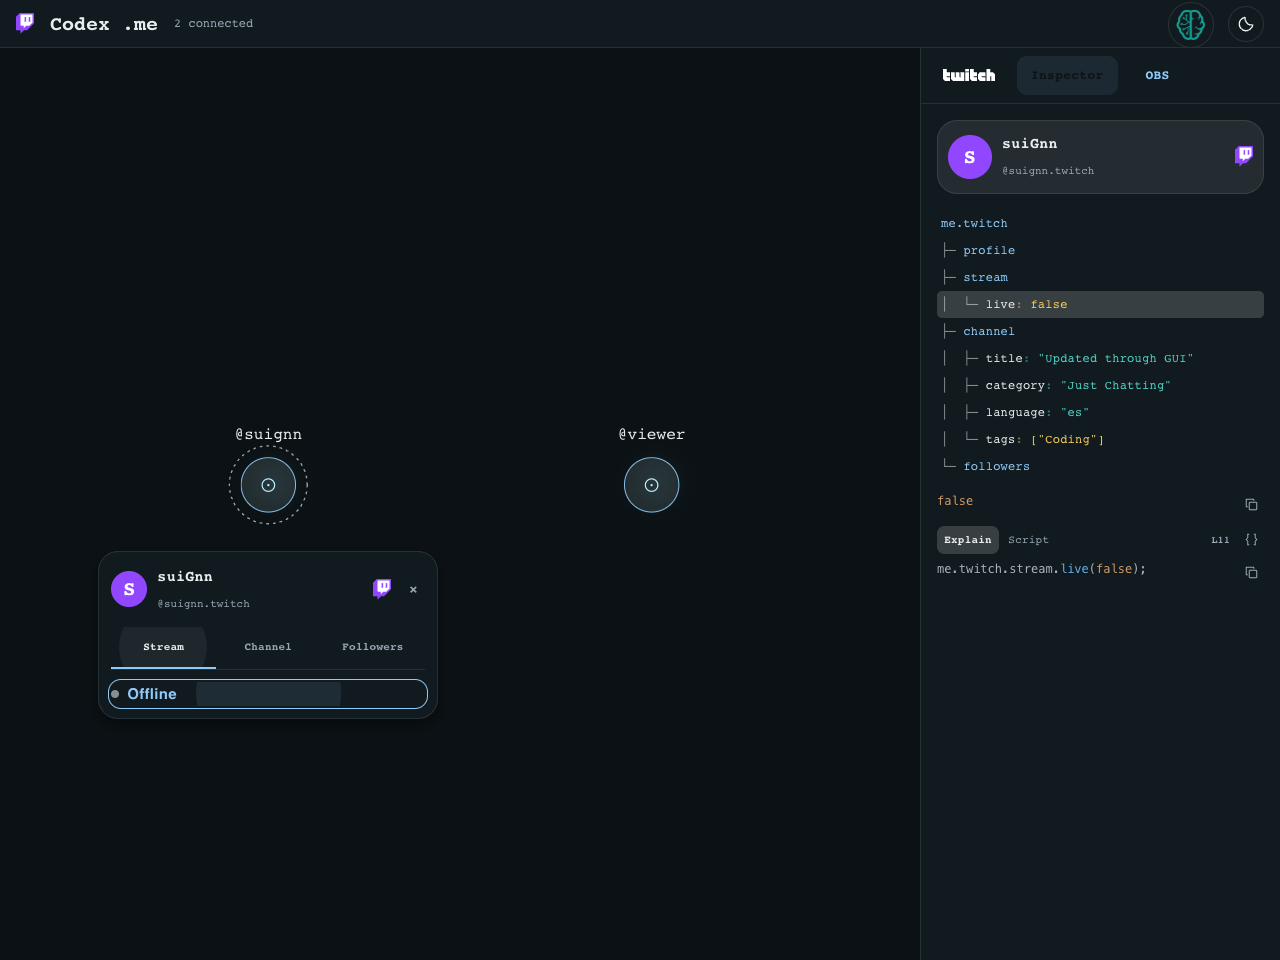
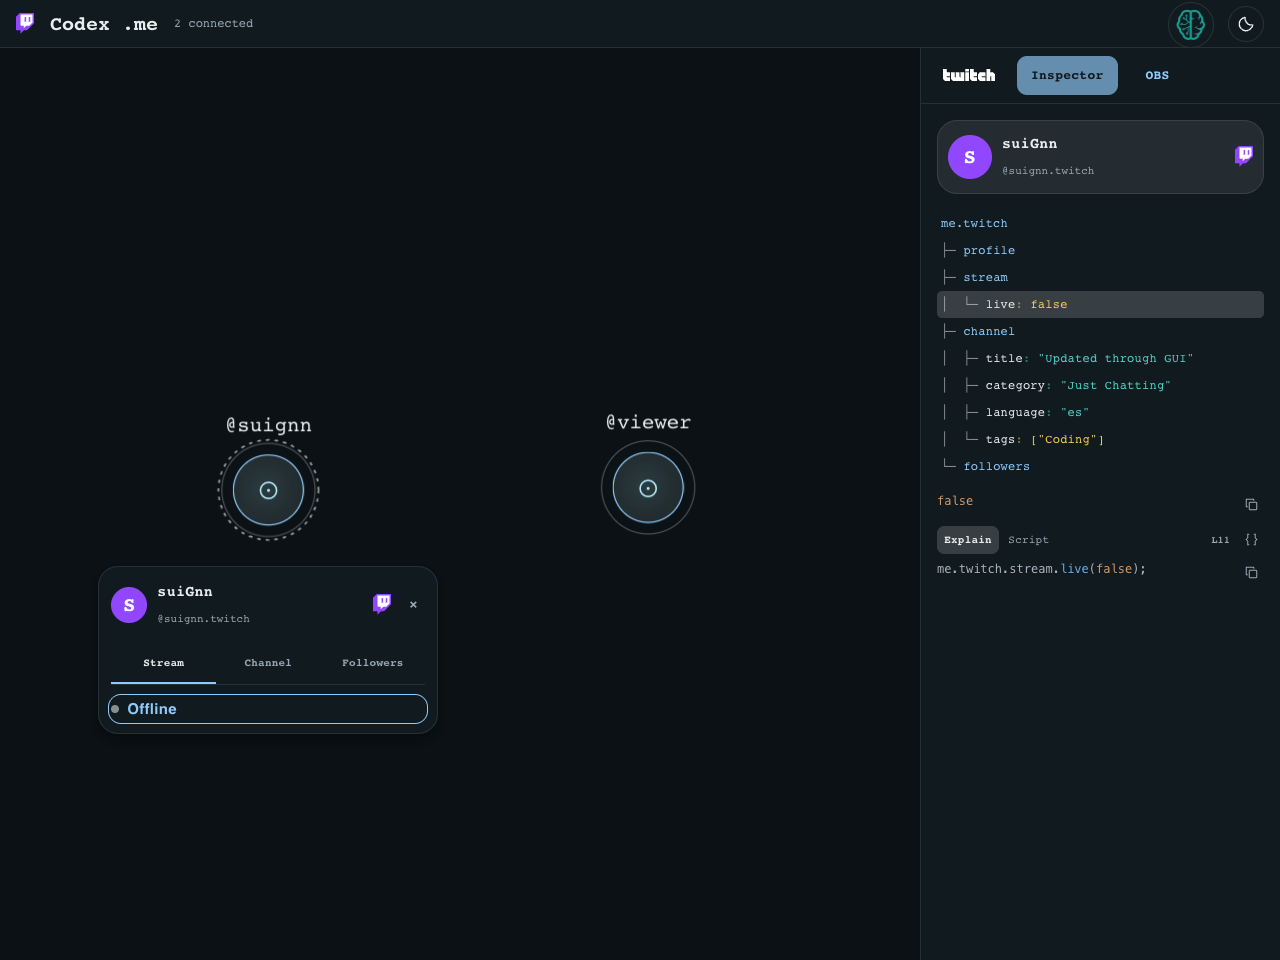
feat: float me companions beside faces and recover stalled tracking

diff --git a/ui/face-tracking.js b/ui/face-tracking.js
@@ -6,12 +6,14 @@ export function FaceTracking({ csrf, authed, owner }) {
   const [enabled, setEnabled] = R.useState(false), [stream, setStream] = R.useState(null);
   const [error, setError] = R.useState(''), [relayError, setRelayError] = R.useState(''), [hasFace, setHasFace] = R.useState(false);
   const video = R.useRef(null), canvas = R.useRef(null), busy = R.useRef(null), published = R.useRef(false);
+  const lastAnchor = R.useRef(0);
   const epoch = R.useRef(0), activeStream = R.useRef(null);
   const { faceLandmarker, faceLandmarkerLoading, faceLandmarkerError } = useFaceLandmarker({ enabled });
   const send = R.useCallback(async anchor => {
     // Landmarks can leave the camera frame; never submit invalid positions.
     const v = video.current;
     if (anchor && (!v?.videoWidth || !v?.videoHeight || !Number.isFinite(anchor.x) || !Number.isFinite(anchor.y) || anchor.x < 0 || anchor.x > 1 || anchor.y < 0 || anchor.y > 1)) return;
+    lastAnchor.current = performance.now();
     if (!anchor && !published.current) return;
     if (busy.current && anchor) return;
     if (!anchor) await busy.current;
@@ -19,7 +21,7 @@ export function FaceTracking({ csrf, authed, owner }) {
     let finish; busy.current = new Promise(resolve => { finish = resolve; });
     try {
       const value = anchor ? { x: anchor.x, y: anchor.y, aspect: v.videoWidth / v.videoHeight } : { x: null, y: null };
-      const response = await fetch('/api/face', { method: 'POST', headers: { 'Content-Type': 'application/json', 'X-CSRF-Token': csrf }, body: JSON.stringify(value), keepalive: !anchor });
+      const response = await fetch('/api/face', { method: 'POST', headers: { 'Content-Type': 'application/json', 'X-CSRF-Token': csrf }, body: JSON.stringify(value), signal: AbortSignal.timeout(2500), keepalive: !anchor });
       if (response.ok) setRelayError('');
       else if (response.status !== 429) setRelayError(response.status === 403 ? 'Tracking session expired. Reload stream setup.' : response.status === 401 ? 'Reconnect Twitch to resume tracking.' : 'Camera position disconnected. Retrying…');
     } catch { setRelayError('Local server unavailable. Retrying…'); } finally { busy.current = null; finish(); }
@@ -29,6 +31,35 @@ export function FaceTracking({ csrf, authed, owner }) {
     faceLandmarkerLoading, faceLandmarkerError, variant: 'modal', mirrorPreview: false, detectThrottleMs: 150,
     noFaceMissesToClear: 4, noFaceGraceMs: 600, minFaceHoldMs: 0,
     showMeshConnections: true, meshStep: 4, onHasFaceChange: setHasFace, onHudAnchor: send });
+  // Keep using GUI's model. A low-rate track snapshot recovers when browser
+  // rAF/video playback pauses; no new camera capture and no images leave this page.
+  R.useEffect(() => {
+    if (!enabled || !stream || !faceLandmarker || faceLandmarkerError) return;
+    const track = stream.getVideoTracks()[0];
+    let capture = null;
+    try { if (typeof ImageCapture === 'function' && track) capture = new ImageCapture(track); } catch { /* Use the video element where track snapshots are unsupported. */ }
+    let detecting = false, disposed = false;
+    const tick = async () => {
+      if (detecting || performance.now() - lastAnchor.current < 750 || activeStream.current !== stream || track?.readyState !== 'live') return;
+      detecting = true; let frame;
+      try {
+        const element = video.current;
+        if (!element) return;
+        if (element.srcObject !== stream) element.srcObject = stream;
+        if (element.paused) void element.play().catch(() => {});
+        if (capture) frame = await capture.grabFrame();
+        else if (element.paused || element.readyState < 2) return;
+        if (disposed || activeStream.current !== stream) return;
+        const result = faceLandmarker.detectForVideo(frame || element, performance.now());
+        const point = result?.faceLandmarks?.[0]?.[10];
+        setHasFace(!!point);
+        void send(point ? { x: point.x, y: point.y } : null);
+      } catch { if (!disposed) setRelayError('Camera tracking paused. Return to stream setup to resume.'); }
+      finally { frame?.close(); detecting = false; }
+    };
+    const timer = setInterval(tick, 1000);
+    return () => { disposed = true; clearInterval(timer); };
+  }, [enabled, stream, faceLandmarker, faceLandmarkerError, send]);
   const stop = R.useCallback(() => {
     epoch.current++; activeStream.current?.getTracks().forEach(track => track.stop()); activeStream.current = null;
     setStream(null); setEnabled(false); setHasFace(false); setRelayError(''); void send(null);
@@ -42,7 +73,7 @@ export function FaceTracking({ csrf, authed, owner }) {
       activeStream.current = media; setStream(media);
     } catch { if (attempt === epoch.current) { setEnabled(false); setError('Allow camera access in this browser, then try again.'); } }
   };
-  R.useEffect(() => { if (video.current) video.current.srcObject = stream; }, [stream]);
+  R.useEffect(() => { if (video.current) { video.current.srcObject = stream; if (stream) void video.current.play().catch(() => {}); } }, [stream]);
   R.useEffect(() => { if (!authed && enabled) stop(); }, [authed, enabled, stop]);
   R.useEffect(() => {
     const close = () => { epoch.current++; activeStream.current?.getTracks().forEach(t => t.stop()); void send(null); };
@@ -54,7 +85,7 @@ export function FaceTracking({ csrf, authed, owner }) {
       h(Typography, { sx: { fontFamily: 'monospace', fontSize: 14, flex: 1 } }, `Camera · @${owner}'s .me`),
       h(Button, { size: 'small', disabled: !authed, onClick: enabled ? stop : start }, enabled ? 'Stop tracking' : 'Start face tracking')),
     h(Typography, { role: 'status', sx: { fontFamily: 'monospace', fontSize: 12, color: error || relayError || faceLandmarkerError ? 'error.main' : 'text.secondary', mt: 1 } },
-      error || relayError || (faceLandmarkerError ? 'Could not load the .GUI face tracker. Check CDN access.' : !enabled ? 'Optional · .GUI face tracking. Camera stays on this computer; only its position goes to the overlay. This does not broadcast video.' : !stream ? 'Waiting for camera access… Allow the browser camera prompt.' : faceLandmarkerLoading ? 'Loading .GUI face tracker…' : hasFace ? 'Face found · .me bubble follows your forehead' : 'Looking for a face…')),
+      error || relayError || (faceLandmarkerError ? 'Could not load the .GUI face tracker. Check CDN access.' : !enabled ? 'Optional · .GUI face tracking. Camera stays on this computer; only its position goes to the overlay. This does not broadcast video.' : !stream ? 'Waiting for camera access… Allow the browser camera prompt.' : faceLandmarkerLoading ? 'Loading .GUI face tracker…' : hasFace ? 'Face found · .me companion follows you' : 'Looking for a face…')),
     enabled ? h(Box, { sx: { position: 'relative', width: '100%', maxWidth: 640, aspectRatio: '16 / 9', bgcolor: '#000', mt: 1, overflow: 'hidden' } },
       h('video', { ref: video, autoPlay: true, playsInline: true, muted: true, 'aria-label': 'Local tracking camera', style: { width: '100%', height: '100%', objectFit: 'contain' } }),
       h('canvas', { ref: canvas, 'aria-label': 'GUI face landmarks', style: { position: 'absolute', inset: 0, width: '100%', height: '100%', pointerEvents: 'none' } })) : null,

diff --git a/overlay/spiders.js b/overlay/spiders.js
@@ -59,23 +59,27 @@ function Kernel({ kernel, index, count, selected, onSelect, face }) {
   const columns = Math.max(1, Math.ceil(Math.sqrt(count * 16 / 9))), rows = Math.ceil(count / columns);
   const rowCount = Math.min(columns, count - Math.floor(index / columns) * columns);
   const tracked = face && face.owner === kernel.owner;
+  const side = React.useRef(1);
+  if (tracked) { if (face.x > 0.78) side.current = -1; else if (face.x < 0.22) side.current = 1; }
   const fitWidth = face ? Math.min(1920, 1080 * face.aspect) : 1920;
   const fitHeight = face ? Math.min(1080, 1920 / face.aspect) : 1080;
   const scale = tracked ? 2.8 : Math.min(3.6, 1600 / columns / 145, 780 / rows / 100);
-  const x = tracked ? Math.max(44 * scale, Math.min(1920 - 44 * scale, (1920 - fitWidth) / 2 + face.x * fitWidth)) : (index % columns + 0.5 + (columns - rowCount) / 2) * 1600 / columns + 160;
-  const y = tracked ? Math.max(64 * scale, Math.min(1080 - 44 * scale, (1080 - fitHeight) / 2 + face.y * fitHeight - 32)) : (Math.floor(index / columns) + 0.5) * 780 / rows + 110;
+  const x = tracked ? Math.max(44 * scale, Math.min(1920 - 44 * scale, (1920 - fitWidth) / 2 + face.x * fitWidth + side.current * 160)) : (index % columns + 0.5 + (columns - rowCount) / 2) * 1600 / columns + 160;
+  const y = tracked ? Math.max(64 * scale, Math.min(1080 - 44 * scale, (1080 - fitHeight) / 2 + face.y * fitHeight - 90)) : (Math.floor(index / columns) + 0.5) * 780 / rows + 110;
   return h('g', { 'data-me-id': kernel.id, 'data-me-bubble': kernel.id, 'data-face-follow': tracked ? 'true' : undefined,
     transform: `translate(${x} ${y}) scale(${scale})`, onClick: onSelect, role: transparent ? undefined : 'button', tabIndex: transparent ? undefined : 0,
     onKeyDown: event => { if (event.key === 'Enter' || event.key === ' ') { event.preventDefault(); onSelect(event); } },
     'aria-label': `.me kernel @${kernel.owner}`, 'aria-pressed': transparent ? undefined : selected,
-    style: { cursor: transparent ? 'default' : 'pointer', transition: 'transform 150ms linear' } },
+    className: 'me-companion', style: { cursor: transparent ? 'default' : 'pointer' } },
     h('title', null, `@${kernel.owner} · ${kernel.presenceReason}`),
     !transparent ? h('rect', { x: -44, y: -60, width: 88, height: 100, fill: 'transparent', pointerEvents: 'all' }) : null,
+    h('g', { className: 'me-companion-float', 'data-companion-motion': true, style: { animationDelay: `${-index * 0.8}s` } },
+    h('circle', { className: 'me-companion-halo', r: 27, fill: 'none', stroke: 'currentColor', strokeWidth: 0.7, pointerEvents: 'none' }),
     selected && !transparent ? h('circle', { r: 29, fill: 'none', stroke: 'currentColor', opacity: 0.65, strokeDasharray: '2 3' }) : null,
     h('foreignObject', { x: -22, y: -22, width: 44, height: 44, style: { overflow: 'visible', pointerEvents: 'none' } },
       h(Box, { className: 'me-visual', sx: { width: 64, height: 64, transform: 'scale(0.6875)', transformOrigin: 'top left' } },
         h(G.Monad, { kind: 'me', variant: 'bubble', mode: 'contained', seed: kernel.owner, label: `@${kernel.owner} · .me`, solid: true, core: 'flat', ring: 1, tooltip: false }))),
-    h('text', { 'data-me-label': kernel.owner, y: -34, textAnchor: 'middle', style: { ...mono, fontSize: 12, fill: 'currentColor' } }, `@${kernel.owner}`));
+    h('text', { 'data-me-label': kernel.owner, y: -34, textAnchor: 'middle', style: { ...mono, fontSize: 12, fill: 'currentColor' } }, `@${kernel.owner}`)));
 }
 function App() {
   const [kernels, setKernels] = React.useState([]), [connected, setConnected] = React.useState(false), [selected, select] = React.useState(null);

diff --git a/overlay/overlay.css b/overlay/overlay.css
@@ -18,3 +18,20 @@ body.transparent, body.transparent #root { background: transparent !important; }
 /* Web chat needs a real viewport, independent of the fixed OBS/legacy canvas. */
 html.spiders-web, html.spiders-web body { width: 100%; height: 100%; overflow: hidden; }
 html.spiders-web #root { width: 100%; height: 100%; }
+
+/* Light CSS motion, independent of camera detection and native GUI rendering. */
+.me-companion { transition: transform 850ms cubic-bezier(.16,.75,.25,1); }
+.me-companion-float { animation: me-companion-drift 5.4s ease-in-out infinite; }
+.me-companion-halo { animation: me-companion-glow 3.6s ease-in-out infinite; }
+@keyframes me-companion-drift {
+  0%, 100% { transform: translate(0px, -3px); }
+  25% { transform: translate(4px, 0px); }
+  50% { transform: translate(0px, 3px); }
+  75% { transform: translate(-4px, 0px); }
+}
+@keyframes me-companion-glow { 0%,100% { opacity: .1; } 50% { opacity: .4; } }
+@media (prefers-reduced-motion: reduce) {
+  .me-companion { transition: none; }
+  .me-companion-float { animation: none; }
+  .me-companion-halo { animation: none; opacity: .2; }
+}

diff --git a/README.md b/README.md
@@ -110,9 +110,9 @@ Run `CHROME="/Applications/Google Chrome.app/Contents/MacOS/Google Chrome" CHECK
 
 ## Optional face tracking
 
-In Stream setup, **Start face tracking** requests the local camera; **Stop tracking** releases it. Existing GUI `useFaceLandmarker`/`useFaceOverlay` hooks publish a forehead anchor that moves the channel owner's .me bubble. Detection runs locally at about six checks/second; only transient `{x,y,aspect}` goes to the loopback server with origin/CSRF/session checks. No images, audio or identity templates are uploaded or persisted. No face verification endpoint is called. Hook source, hashes, license and reproducible build instructions are under `ui/vendor/face/` and `tools/build-face-vendor.mjs` (TypeScript 5.9.3).
+In Stream setup, **Start face tracking** requests the local camera; **Stop tracking** releases it. Existing GUI `useFaceLandmarker`/`useFaceOverlay` hooks publish a face anchor. The owner's .me bubble follows beside it with an offset, eased travel, gentle CSS drift and a subtle halo; side switching uses a wide threshold to avoid jitter. Reduced-motion preferences disable drift and easing, and the hit area stays fixed while the visual floats. Foreground detection runs locally at about six checks/second; only transient `{x,y,aspect}` goes to the loopback server with origin/CSRF/session checks. No images, audio or identity templates are uploaded or persisted. If GUI frame callbacks stall, a watchdog reuses the same model at most once per second. On supported browsers, `ImageCapture.grabFrame()` reads the existing authorized video track into a temporary local ImageBitmap, which is closed after detection; it opens no second camera. Other browsers fall back to the video element. Local relay requests time out after 2.5 seconds rather than holding the sending lock indefinitely. The setup page must remain open. No face verification endpoint is called. Hook source, hashes, license and reproducible build instructions are under `ui/vendor/face/` and `tools/build-face-vendor.mjs` (TypeScript 5.9.3).
 
-The mapping assumes the same camera centered and fitted inside OBS's 1920×1080 canvas, without crop or mirroring. Custom camera transforms are not calibrated. The local browser has reported a ready 640×360 camera, Face found, and an active face-follow bubble after reconnecting. Visual alignment with an actual OBS camera composition remains unverified; synthetic checks are not live broadcast evidence. Camera access and model/WASM downloads depend on browser permissions and network availability. Loading media without a camera stream is displayed as waiting for camera access. A successful relay update clears transient connection errors; invalid or out-of-frame landmarks are not submitted. The local camera preview does not broadcast video or add a camera source to OBS. To show a face on Twitch, add that camera in OBS alongside the transparent overlay and start streaming there.
+The mapping assumes the same camera centered and fitted inside OBS's 1920×1080 canvas, without crop or mirroring. Custom camera transforms are not calibrated. The local browser has reported a ready 640×360 camera, Face found, and an active face-follow bubble after reconnecting. Visual alignment with an actual OBS camera composition remains unverified; synthetic checks are not live broadcast evidence. Camera access and model/WASM downloads depend on browser permissions and network availability. Loading media without a camera stream is displayed as waiting for camera access. Motion and paused-preview recovery are covered by the synthetic camera check, including stalled rAF, a deliberately paused video element, fresh relay updates, reduced-motion and stopping the camera. A successful relay update clears transient connection errors; invalid or out-of-frame landmarks are not submitted. The local camera preview does not broadcast video or add a camera source to OBS. To show a face on Twitch, add that camera in OBS alongside the transparent overlay and start streaming there.
 
 ## Verification and evidence
 

diff --git a/evidence/SESSION.md b/evidence/SESSION.md
@@ -583,3 +583,16 @@ The owner explicitly chose preserving the full camera image with possible side b
 At the owner's request, increased the resting grid bubble cap from scale 2.8 to 3.6 and face-follow scale from 1 to 2.8. The existing grid density limits still shrink crowded layouts. Follow-position frame margins now scale with the larger bubble to reduce edge clipping; native kernel values and tracking coordinates remain unchanged. Updated and passed the isolated synthetic-camera/GUI/server/OBS integration, including the existing anchor mapping and the new 2.8 follow scale. Original test/ files remain unchanged.
 
 Refreshed only the OBS Browser source while the owner's stream was active, without starting or stopping it. Native preview visibly shows the larger bubble. The active web demo was refreshed after confirming no unsaved field/chat draft; its DOM reports scale(3.6). Current neurons.me theme was preserved. The real camera scene screenshot was kept outside the repository for local review. This size adjustment does not resolve the previously measured encoding/network lag, and no new face-alignment claim is made.
+
+
+### 2026-10-29 — floating companion motion and tracking continuity
+
+The owner requested a companion-like effect rather than a rigid forehead attachment and reported lost tracking. The setup tab was still open and displaying Face found, but a four-second relay sample observed only two face messages, one fresh; GUI uses requestAnimationFrame, which can stall in background tabs. Reproduced a paused local video in the synthetic browser test.
+
+The bubble now targets a position 160 canvas pixels beside the face and 90 above its anchor, with hysteresis for side changes, proportional edge bounds, 850ms eased travel, a 5.4-second local CSS drift and a subtle pulsing halo. Native GUI Monad and kernel data are unchanged. A stationary transparent hit rectangle stays outside the animated group so click selection remains stable. Reduced-motion disables drift/easing. No additional JavaScript animation/render loop was added.
+
+Added a low-rate watchdog reusing GUI's existing MediaPipe instance. When frame callbacks stall it samples the already-authorized camera track through ImageCapture.grabFrame at most once per second, detects locally, and closes the temporary ImageBitmap. Unsupported browsers use the video element. It can reattach/resume the existing stream, never opens a second camera, and cleans up on stop/unmount. Relay requests have a 2.5-second timeout; only the existing coordinates/aspect JSON reaches the server. Verified interfaces against the W3C MediaStream Image Capture specification and official MediaPipe JS FaceLandmarker reference.
+
+Synthetic-camera/GUI/server/OBS tests passed for adjacent target mapping, CSS drift, reduced motion and fresh relay updates with rAF stopped and video deliberately paused. Kernel browser integration passed; its concurrent-cache assertion now checks deduplication relative to the request baseline, allowing normal five-second visible stream polling during longer interaction checks. Original test/ files are untouched.
+
+Reloaded the existing setup camera and both web/OBS overlay views without restarting the backend or changing OBS streaming. Native OBS preview subsequently showed the companion beside the owner's face. Read-only web measurements confirmed the drift matrix changes between observations. Real camera screenshots remain outside the repository; synthetic evidence stays labeled. This does not establish a reduction in Twitch broadcast latency or pixel-perfect camera/overlay calibration.
